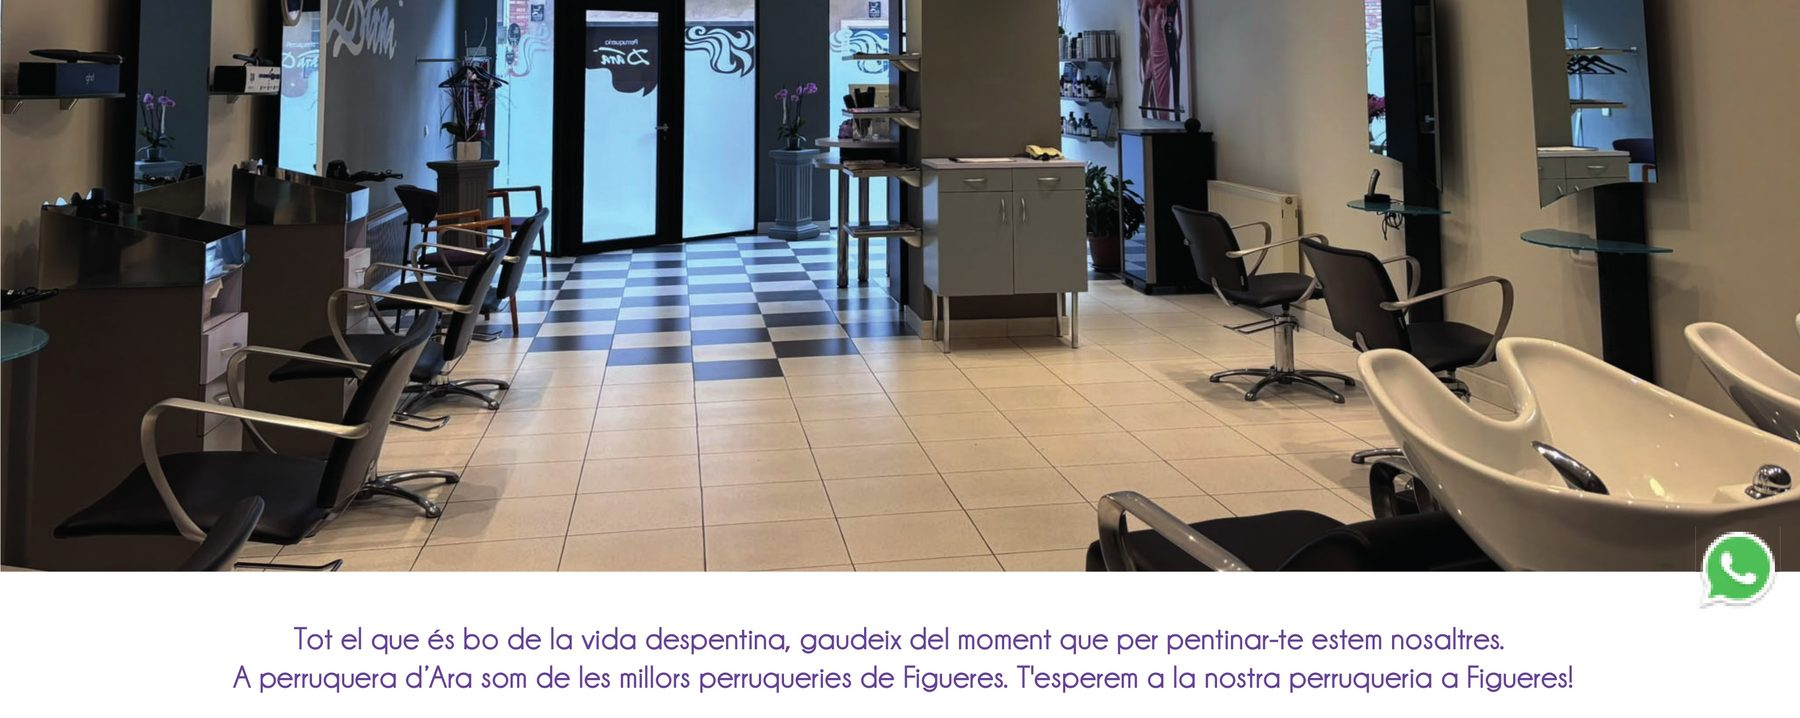
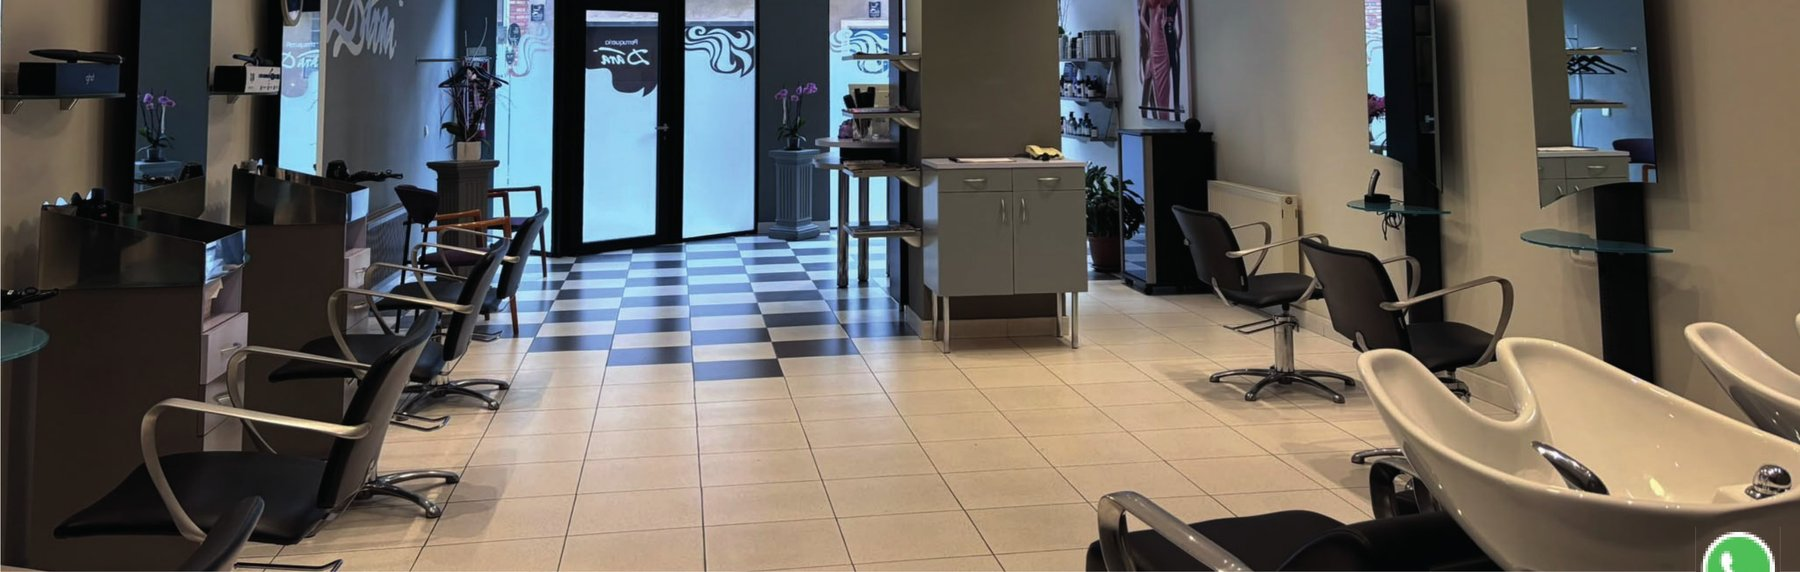
Fix mobile nav overflow, unify typography, and match more PDF content
- Fix real horizontal-scroll bug: the mobile nav panel used
  position:fixed + transform:translateX(100%) to hide off-screen,
  which doubled the page's scrollable width on narrow viewports.
  Add overflow-x:hidden as the standard fix for this pattern.
- Unify all type on a single family (Work Sans) instead of mixing in
  a second display serif, drop the now-unused font import.
- Increase the homepage hero photo height.
- Re-crop the homepage hero photo tighter so it no longer bakes in
  part of the intro paragraph text from the PDF crop.
- Swap each service page's second/detail photo for the one actually
  shown in that page's PDF reference (previously mismatched stock
  photos).
- Remove the double section padding on the CTA banner (generic
  section padding + its own wrap padding were stacking).
- Reduce chip button padding on the "other services" row.
- Fix service card hover: only the image should zoom on hover, not
  the whole card (was causing it to visually clip into the row above).

Claude-Session: https://claude.ai/code/session_01UEnx5nNx21mw44e6TVfV9X

diff --git a/css/style.css b/css/style.css
@@ -5,7 +5,7 @@
    mauve of the hand-lettered "D'Ara" sign.
    ========================================================= */
 
-@import url('https://fonts.googleapis.com/css2?family=Fraunces:ital,opsz,wght@0,9..144,300;0,9..144,400;0,9..144,500;0,9..144,600;1,9..144,400;1,9..144,500&family=Work+Sans:wght@300;400;500;600&display=swap');
+@import url('https://fonts.googleapis.com/css2?family=Work+Sans:ital,wght@0,300;0,400;0,500;0,600;1,400;1,500&display=swap');
 
 :root{
   --ink:        #211d1b;
@@ -20,7 +20,7 @@
   --line:       #ddceba;
   --black:      #17130f;
 
-  --font-display: 'Fraunces', Georgia, serif;
+  --font-display: 'Work Sans', -apple-system, BlinkMacSystemFont, 'Segoe UI', sans-serif;
   --font-body: 'Work Sans', -apple-system, BlinkMacSystemFont, 'Segoe UI', sans-serif;
 
   --container: 1180px;
@@ -28,10 +28,11 @@
 }
 
 *, *::before, *::after{ box-sizing: border-box; }
-html{ scroll-behavior: smooth; }
+html{ scroll-behavior: smooth; overflow-x: hidden; }
 
 body{
   margin: 0;
+  overflow-x: hidden;
   font-family: var(--font-body);
   color: var(--ink);
   background: var(--paper);
@@ -472,8 +473,6 @@ section{ padding: 96px 0; }
   transition: transform .8s cubic-bezier(.16,.8,.24,1);
 }
 .svc-card:hover .thumb img{ transform: scale(1.06); }
-.svc-card{ transition: transform .5s cubic-bezier(.16,.8,.24,1); }
-.svc-card:hover{ transform: translateY(-4px); }
 .svc-card .body{
   padding: 28px 26px 32px;
   flex: 1;
@@ -568,6 +567,7 @@ section{ padding: 96px 0; }
 .cta-banner{
   background: var(--mauve-deep);
   color: var(--white);
+  padding: 56px 0;
 }
 .cta-banner .wrap{
   display: flex;
@@ -575,8 +575,6 @@ section{ padding: 96px 0; }
   justify-content: space-between;
   gap: 32px;
   flex-wrap: wrap;
-  padding-top: 64px;
-  padding-bottom: 64px;
 }
 .cta-banner h2{ color: var(--white); font-size: clamp(26px,3vw,34px); font-style: italic; font-weight: 400; max-width: 16ch; }
 .cta-banner .btn--primary{ background: var(--white); color: var(--black); border-color: var(--white); }
@@ -682,7 +680,7 @@ section{ padding: 96px 0; }
   align-items:flex-end;
   overflow: hidden;
 }
-.page-hero--home{ height: 44vh; min-height: 300px; }
+.page-hero--home{ height: 62vh; min-height: 460px; }
 .page-hero--home::after{ background: linear-gradient(0deg, rgba(23,19,15,.35) 0%, rgba(23,19,15,0) 40%); }
 .home-intro{ padding: 56px 0 8px; background: var(--white); }
 .home-intro .wrap{ max-width: 760px; text-align: center; }
@@ -773,7 +771,7 @@ section{ padding: 96px 0; }
 .chip-row{ display:flex; flex-wrap: wrap; gap: 12px; }
 .chip{
   border: 1px solid var(--ink);
-  padding: 10px 18px;
+  padding: 8px 14px;
   font-size: 13.5px;
   font-weight: 500;
   transition: background .2s ease, color .2s ease;

diff --git a/tractaments-de-recuperacio-capillar.html b/tractaments-de-recuperacio-capillar.html
@@ -53,7 +53,7 @@
 
   <section class="detail">
     <div class="wrap detail-grid">
-      <div class="frame reveal-scale"><img src="images/curly-detail.jpg" alt="Detall del servei Tractaments de recuperació capil·lar a Perruqueria D'Ara" loading="lazy" width="700" height="756"></div>
+      <div class="frame reveal-scale"><img src="images/detail-tractaments.jpg" alt="Detall del servei Tractaments de recuperació capil·lar a Perruqueria D'Ara" loading="lazy" width="900" height="900"></div>
       <div class="detail-copy reveal" style="--reveal-delay:.1s">
         <span class="eyebrow">Servei 03</span>
         <h2>Recupera la força, la vitalitat i la bellesa natural del teu cabell</h2>

diff --git a/tecniques-de-color-tints-i-metxes.html b/tecniques-de-color-tints-i-metxes.html
@@ -53,7 +53,7 @@
 
   <section class="detail">
     <div class="wrap detail-grid">
-      <div class="frame reveal-scale"><img src="images/color-smile.jpg" alt="Detall del servei Tècniques de color, tints i metxes a Perruqueria D'Ara" loading="lazy" width="700" height="756"></div>
+      <div class="frame reveal-scale"><img src="images/detail-tecniques.jpg" alt="Detall del servei Tècniques de color, tints i metxes a Perruqueria D'Ara" loading="lazy" width="900" height="900"></div>
       <div class="detail-copy reveal" style="--reveal-delay:.1s">
         <span class="eyebrow">Servei 04</span>
         <h2>Dona color al teu estil i troba el to que millor parla de tu</h2>

diff --git a/allisats-organics.html b/allisats-organics.html
@@ -53,7 +53,7 @@
 
   <section class="detail">
     <div class="wrap detail-grid">
-      <div class="frame reveal-scale"><img src="images/curly-detail.jpg" alt="Detall del servei Allisats orgànics a Perruqueria D'Ara" loading="lazy" width="700" height="756"></div>
+      <div class="frame reveal-scale"><img src="images/detail-allisats.jpg" alt="Detall del servei Allisats orgànics a Perruqueria D'Ara" loading="lazy" width="900" height="900"></div>
       <div class="detail-copy reveal" style="--reveal-delay:.1s">
         <span class="eyebrow">Servei 05</span>
         <h2>Un cabell més llis, suau i manejable, sense renunciar a la seva naturalitat</h2>

diff --git a/pentinats-de-nuvia.html b/pentinats-de-nuvia.html
@@ -53,7 +53,7 @@
 
   <section class="detail">
     <div class="wrap detail-grid">
-      <div class="frame reveal-scale"><img src="images/wall-logo-orchid.jpg" alt="Detall del servei Pentinats de núvia a Perruqueria D'Ara" loading="lazy" width="700" height="756"></div>
+      <div class="frame reveal-scale"><img src="images/detail-nuvia.jpg" alt="Detall del servei Pentinats de núvia a Perruqueria D'Ara" loading="lazy" width="900" height="900"></div>
       <div class="detail-copy reveal" style="--reveal-delay:.1s">
         <span class="eyebrow">Servei 06</span>
         <h2>El pentinat perfecte per a un dia que recordaràs sempre</h2>

diff --git a/talls-i-canvi-destil.html b/talls-i-canvi-destil.html
@@ -53,7 +53,7 @@
 
   <section class="detail">
     <div class="wrap detail-grid">
-      <div class="frame reveal-scale"><img src="images/cut-detail.jpg" alt="Detall del servei Talls i canvi d'estil a Perruqueria D'Ara" loading="lazy" width="700" height="756"></div>
+      <div class="frame reveal-scale"><img src="images/detail-talls.jpg" alt="Detall del servei Talls i canvi d'estil a Perruqueria D'Ara" loading="lazy" width="900" height="900"></div>
       <div class="detail-copy reveal" style="--reveal-delay:.1s">
         <span class="eyebrow">Servei 01</span>
         <h2>Un nou tall, una nova manera de veure't</h2>

diff --git a/pentinats.html b/pentinats.html
@@ -53,7 +53,7 @@
 
   <section class="detail">
     <div class="wrap detail-grid">
-      <div class="frame reveal-scale"><img src="images/shelf-products.jpg" alt="Detall del servei Pentinats a Perruqueria D'Ara" loading="lazy" width="700" height="756"></div>
+      <div class="frame reveal-scale"><img src="images/detail-pentinats.jpg" alt="Detall del servei Pentinats a Perruqueria D'Ara" loading="lazy" width="900" height="900"></div>
       <div class="detail-copy reveal" style="--reveal-delay:.1s">
         <span class="eyebrow">Servei 02</span>
         <h2>Troba el pentinat que millor encaixa amb tu</h2>

diff --git a/index.html b/index.html
@@ -42,7 +42,7 @@
 <main id="main">
 
   <section class="page-hero page-hero--home">
-    <img src="images/hero-home.jpg" alt="Interior de Perruqueria D'Ara a Figueres" width="1800" height="718">
+    <img src="images/hero-home.jpg" alt="Interior de Perruqueria D'Ara a Figueres" width="1800" height="572">
   </section>
 
   <section class="home-intro">
